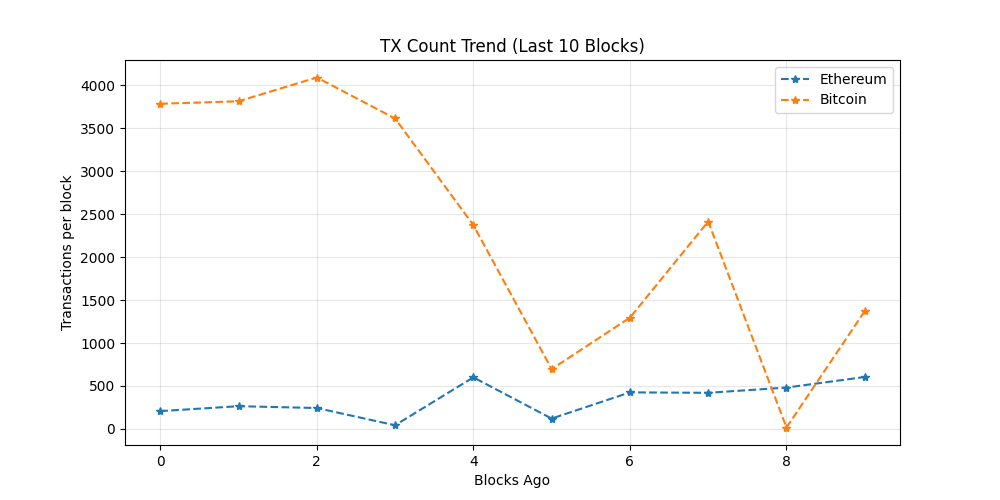
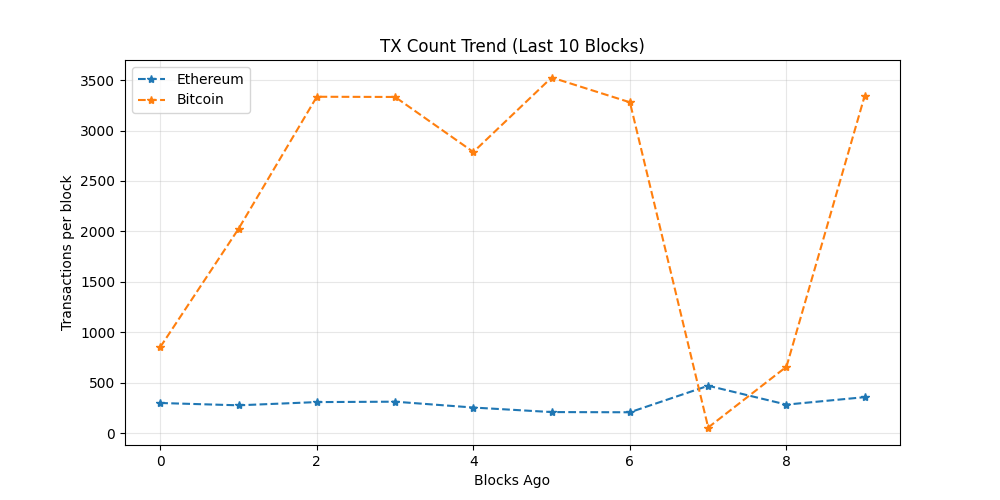
chore: update on-chain dashboard

diff --git a/README.md b/README.md
@@ -19,7 +19,7 @@ The README itself acts as the dashboard and is regenerated automatically on a 6 
 demonstrating a production-style, infrastructure-focused observability workflow rather
 than a traditional UI-driven approach.
 
-_Last updated: 2026-01-22 06:53 UTC_
+_Last updated: 2026-01-22 13:13 UTC_
 
 ## API Usage (GetBlock.io)
 - Calls used: **24**
@@ -27,8 +27,8 @@ _Last updated: 2026-01-22 06:53 UTC_
 ## Network Metrics
 | Chain | Block Height | TX Count | TPS (10 blk avg) | Block Util | Avg Fee |
 |------|-------------|----------|------------------|------------|---------|
-| Ethereum | 24288660 | 604 | 50.33 | 66.35% | 0.1 Gwei |
-| Bitcoin | 933330 | 1372 | 8.07 | 99.79% | N/A |
+| Ethereum | 24290544 | 356 | 29.67 | 99.24% | 0.1 Gwei |
+| Bitcoin | 933374 | 3347 | 139.46 | 99.79% | N/A |
 
 ## Visuals
 ### Transactions Trend
@@ -43,7 +43,7 @@ _Last updated: 2026-01-22 06:53 UTC_
 ## Whale Alerts (latest block)
 - Transaction hashes are truncated for readability.
 - Full hashes are available in `dashboards/metrics.json`
-- Bitcoin | 504.1 BTC | `40c765d6540a…`
+No whale-sized transfers detected in latest blocks.
 
 ## Run locally
 
